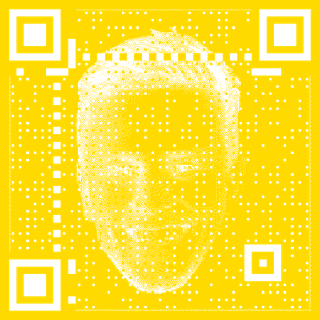
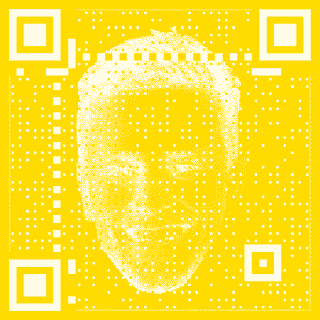
Deployed using Blazing fast GitHub Pages deploy

diff --git a/service-worker.js b/service-worker.js
@@ -1,2 +1,2 @@
-if(!self.define){const e=e=>{"require"!==e&&(e+=".js");let s=Promise.resolve();return i[e]||(s=new Promise(async s=>{if("document"in self){const i=document.createElement("script");i.src=e,document.head.appendChild(i),i.onload=s}else importScripts(e),s()})),s.then(()=>{if(!i[e])throw new Error(`Module ${e} didn’t register its module`);return i[e]})},s=(s,i)=>{Promise.all(s.map(e)).then(e=>i(1===e.length?e[0]:e))},i={require:Promise.resolve(s)};self.define=(s,a,r)=>{i[s]||(i[s]=Promise.resolve().then(()=>{let i={};const c={uri:location.origin+s.slice(1)};return Promise.all(a.map(s=>{switch(s){case"exports":return i;case"module":return c;default:return e(s)}})).then(e=>{const s=r(...e);return i.default||(i.default=s),i})}))}}define("./service-worker.js",["./workbox-d69d5477"],(function(e){"use strict";e.setCacheNameDetails({prefix:"alex-page"}),self.addEventListener("message",e=>{e.data&&"SKIP_WAITING"===e.data.type&&self.skipWaiting()}),e.precacheAndRoute([{url:"404.html",revision:"54bea95b48ee303be318470c418c6945"},{url:"assets/blog/actions.jpg",revision:"bd92975eae17f4058c3ee93f8f6ea165"},{url:"assets/blog/gh-actions.jpg",revision:"668179f9dce00dcfe97ee0372d8a3cfc"},{url:"assets/blog/workflow.jpg",revision:"83b9342473acd69eeb89e14dc8b4be23"},{url:"assets/favicons/alex-page.jpg",revision:"3a6795ab492eed9afdd31f60905749cb"},{url:"assets/favicons/apple-touch-icon.png",revision:"3748c3e5a5053b42ca0d73921cf0d575"},{url:"assets/favicons/favicon-16x16.png",revision:"6b633b08046cb9fe1c721c564ff9d470"},{url:"assets/favicons/favicon-32x32.png",revision:"e83efafb8239f8d71de5d11e60845b84"},{url:"assets/favicons/favicon.ico",revision:"f3f3911092cf9903a257a9ccf1a446b5"},{url:"assets/favicons/icon-192.png",revision:"93fdadc2c2b1a0f322280fea0a6b8bba"},{url:"assets/favicons/icon-512.png",revision:"a82c53a9b5ed34f65d97abd0454e3969"},{url:"assets/favicons/mstile-150x150.png",revision:"44e9c875c20dc554b74e7d5954d38bee"},{url:"assets/favicons/safari-pinned-tab.svg",revision:"bd2022f41a6e2aa0028836a508aa906e"},{url:"assets/img/alex-page.png",revision:"597889adb823c5026fd89a4d212252bd"},{url:"assets/img/logo.svg",revision:"d4d2949e5dccdc92533fa2348fe2df81"},{url:"blog/github-actions-npm/index.html",revision:"8a85a8dd6d88ff2514d638d90a131b6d"},{url:"blog/index.html",revision:"c4d63c05d93f59ce06bfb2f8181c5e72"},{url:"index.html",revision:"8fb6a942fb1fbb2a891aa8d887eb9a6e"},{url:"projects/a11ycolor/index.html",revision:"567dc4a88cbf44a38a7c12eb09554599"},{url:"projects/auds/index.html",revision:"3865ab42a99ff014f73a4a4bc3ae70e0"},{url:"projects/chameleon/index.html",revision:"25b83087764e5580984a7ce971987884"},{url:"projects/furnace/index.html",revision:"04f274a1be0c7467985dfb490235a560"},{url:"projects/harmonograph/index.html",revision:"a76d3e32570c868931037ee104202e4c"},{url:"projects/index.html",revision:"77eea61c188e16c97b4470db860893f1"},{url:"talks/hard-work-make-simple/index.html",revision:"e4531ffb628254b4bee8361c312ff5b2"},{url:"talks/index.html",revision:"1c4e519868b64600c0a0b41ed403aaa2"},{url:"talks/names-culture/index.html",revision:"e32845fff1f11d3cd9ff7edf3d0052e1"}],{})}));
+if(!self.define){const e=e=>{"require"!==e&&(e+=".js");let s=Promise.resolve();return i[e]||(s=new Promise(async s=>{if("document"in self){const i=document.createElement("script");i.src=e,document.head.appendChild(i),i.onload=s}else importScripts(e),s()})),s.then(()=>{if(!i[e])throw new Error(`Module ${e} didn’t register its module`);return i[e]})},s=(s,i)=>{Promise.all(s.map(e)).then(e=>i(1===e.length?e[0]:e))},i={require:Promise.resolve(s)};self.define=(s,a,r)=>{i[s]||(i[s]=Promise.resolve().then(()=>{let i={};const c={uri:location.origin+s.slice(1)};return Promise.all(a.map(s=>{switch(s){case"exports":return i;case"module":return c;default:return e(s)}})).then(e=>{const s=r(...e);return i.default||(i.default=s),i})}))}}define("./service-worker.js",["./workbox-d69d5477"],(function(e){"use strict";e.setCacheNameDetails({prefix:"alex-page"}),self.addEventListener("message",e=>{e.data&&"SKIP_WAITING"===e.data.type&&self.skipWaiting()}),e.precacheAndRoute([{url:"404.html",revision:"54bea95b48ee303be318470c418c6945"},{url:"assets/blog/actions.jpg",revision:"bd92975eae17f4058c3ee93f8f6ea165"},{url:"assets/blog/gh-actions.jpg",revision:"668179f9dce00dcfe97ee0372d8a3cfc"},{url:"assets/blog/workflow.jpg",revision:"83b9342473acd69eeb89e14dc8b4be23"},{url:"assets/favicons/alex-page.jpg",revision:"3a6795ab492eed9afdd31f60905749cb"},{url:"assets/favicons/apple-touch-icon.png",revision:"3748c3e5a5053b42ca0d73921cf0d575"},{url:"assets/favicons/favicon-16x16.png",revision:"6b633b08046cb9fe1c721c564ff9d470"},{url:"assets/favicons/favicon-32x32.png",revision:"e83efafb8239f8d71de5d11e60845b84"},{url:"assets/favicons/favicon.ico",revision:"f3f3911092cf9903a257a9ccf1a446b5"},{url:"assets/favicons/icon-192.png",revision:"93fdadc2c2b1a0f322280fea0a6b8bba"},{url:"assets/favicons/icon-512.png",revision:"a82c53a9b5ed34f65d97abd0454e3969"},{url:"assets/favicons/mstile-150x150.png",revision:"44e9c875c20dc554b74e7d5954d38bee"},{url:"assets/favicons/safari-pinned-tab.svg",revision:"bd2022f41a6e2aa0028836a508aa906e"},{url:"assets/img/alex-page.png",revision:"df8a81a086b77e2ac2c6b63a8c388950"},{url:"assets/img/logo.svg",revision:"d4d2949e5dccdc92533fa2348fe2df81"},{url:"blog/github-actions-npm/index.html",revision:"8a85a8dd6d88ff2514d638d90a131b6d"},{url:"blog/index.html",revision:"c4d63c05d93f59ce06bfb2f8181c5e72"},{url:"index.html",revision:"8fb6a942fb1fbb2a891aa8d887eb9a6e"},{url:"projects/a11ycolor/index.html",revision:"567dc4a88cbf44a38a7c12eb09554599"},{url:"projects/auds/index.html",revision:"3865ab42a99ff014f73a4a4bc3ae70e0"},{url:"projects/chameleon/index.html",revision:"25b83087764e5580984a7ce971987884"},{url:"projects/furnace/index.html",revision:"04f274a1be0c7467985dfb490235a560"},{url:"projects/harmonograph/index.html",revision:"a76d3e32570c868931037ee104202e4c"},{url:"projects/index.html",revision:"77eea61c188e16c97b4470db860893f1"},{url:"talks/hard-work-make-simple/index.html",revision:"e4531ffb628254b4bee8361c312ff5b2"},{url:"talks/index.html",revision:"1c4e519868b64600c0a0b41ed403aaa2"},{url:"talks/names-culture/index.html",revision:"e32845fff1f11d3cd9ff7edf3d0052e1"}],{})}));
 //# sourceMappingURL=service-worker.js.map
